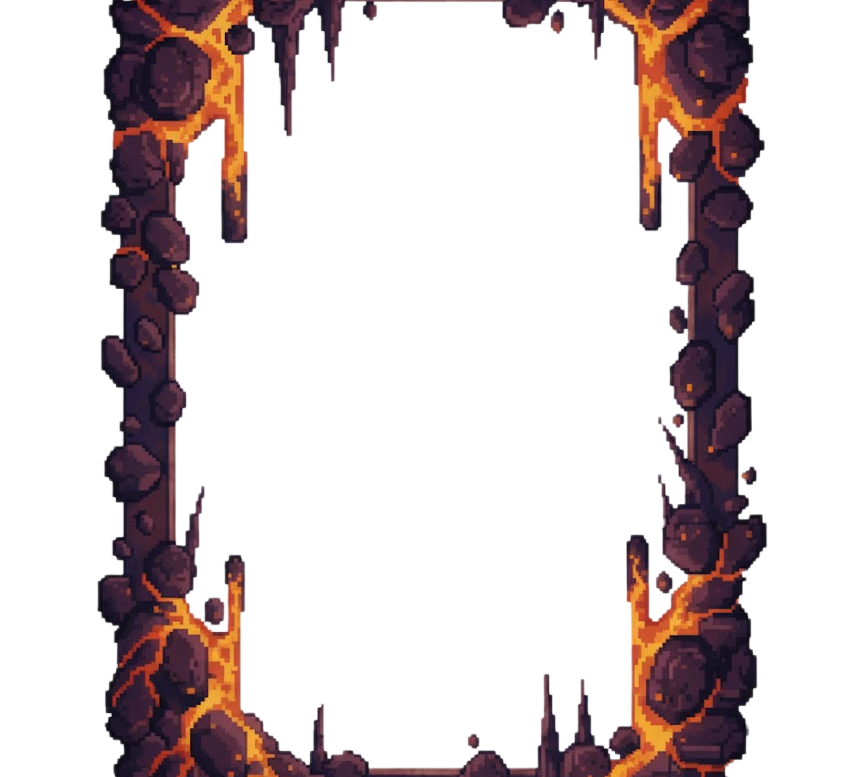
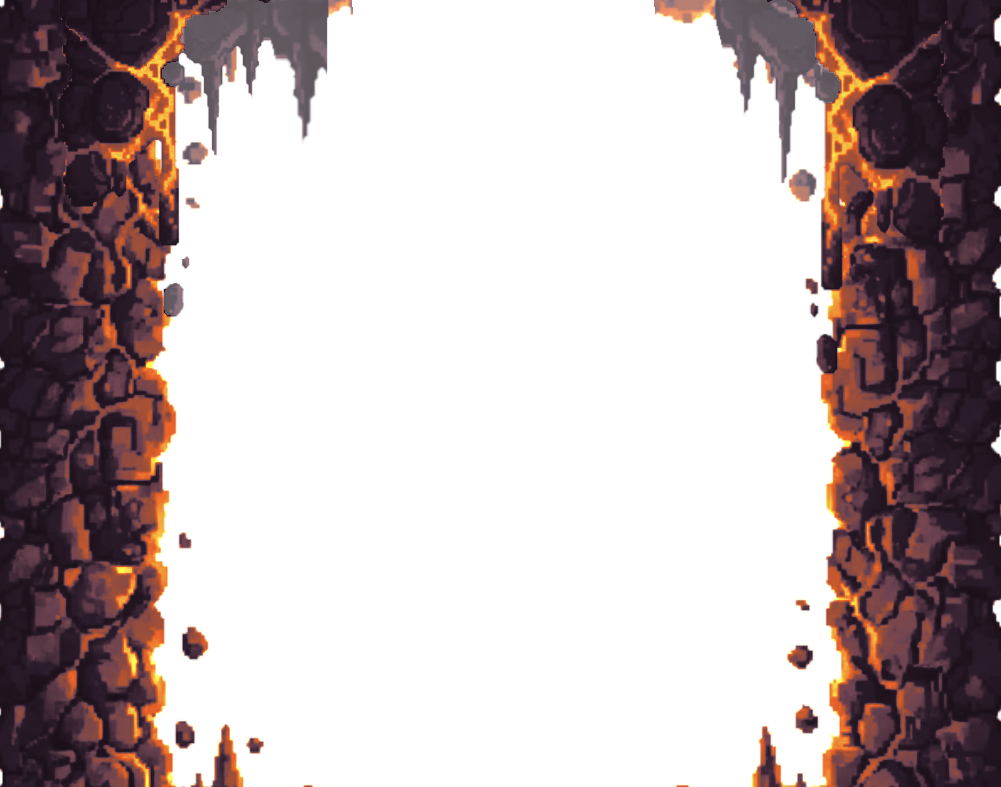
Lam xong map game hẹ hẹ hẹ

diff --git a/src/main/java/com/example/arkanoid/GameManager.java b/src/main/java/com/example/arkanoid/GameManager.java
@@ -98,26 +98,26 @@ public class GameManager {
 
             // --- Viền trái ---
             leftSideImage.add(new Image(getClass().getResourceAsStream("/com/example/arkanoid/images/BorderSide1.jpg")));
-            leftSideImage.add(new Image(getClass().getResourceAsStream("/com/example/arkanoid/images/BorderSide1.jpg")));
-            leftSideImage.add(new Image(getClass().getResourceAsStream("/com/example/arkanoid/images/BorderSide1.jpg")));
+            leftSideImage.add(new Image(getClass().getResourceAsStream("/com/example/arkanoid/images/BorderSide2.jpg")));
+            leftSideImage.add(new Image(getClass().getResourceAsStream("/com/example/arkanoid/images/BorderSide3.jpg")));
 
             // --- Viền phải ---
             rightSideImage.add(new Image(getClass().getResourceAsStream("/com/example/arkanoid/images/BorderSide1.jpg")));
-            rightSideImage.add(new Image(getClass().getResourceAsStream("/com/example/arkanoid/images/BorderSide1.jpg")));
-            rightSideImage.add(new Image(getClass().getResourceAsStream("/com/example/arkanoid/images/BorderSide1.jpg")));
+            rightSideImage.add(new Image(getClass().getResourceAsStream("/com/example/arkanoid/images/BorderSide2.jpg")));
+            rightSideImage.add(new Image(getClass().getResourceAsStream("/com/example/arkanoid/images/BorderSide3.jpg")));
 
             // --- Bảng điểm ---
             scoreBoard.add(new Image(getClass().getResourceAsStream("/com/example/arkanoid/images/Score_Board1.png")));
             scoreBoard.add(new Image(getClass().getResourceAsStream("/com/example/arkanoid/images/Score_Board2.png")));
-            scoreBoard.add(new Image(getClass().getResourceAsStream("/com/example/arkanoid/images/Score_Board1.png")));
+            scoreBoard.add(new Image(getClass().getResourceAsStream("/com/example/arkanoid/images/Score_Board3.png")));
             //--- Phu kien game map ---
             angle1.add(new Image(getClass().getResourceAsStream("/com/example/arkanoid/images/angle1_1.png")));
             angle1.add(new Image(getClass().getResourceAsStream("/com/example/arkanoid/images/angle1_2.png")));
-            angle1.add(new Image(getClass().getResourceAsStream("/com/example/arkanoid/images/angle1_1.png")));
+            angle1.add(new Image(getClass().getResourceAsStream("/com/example/arkanoid/images/angle1_3.png")));
 
             angle2.add(new Image(getClass().getResourceAsStream("/com/example/arkanoid/images/angle2_1.png")));
             angle2.add(new Image(getClass().getResourceAsStream("/com/example/arkanoid/images/angle2_2.png")));
-            angle2.add(new Image(getClass().getResourceAsStream("/com/example/arkanoid/images/angle2_1.png")));
+            angle2.add(new Image(getClass().getResourceAsStream("/com/example/arkanoid/images/angle2_3.png")));
 
 
         } catch (Exception e) {
